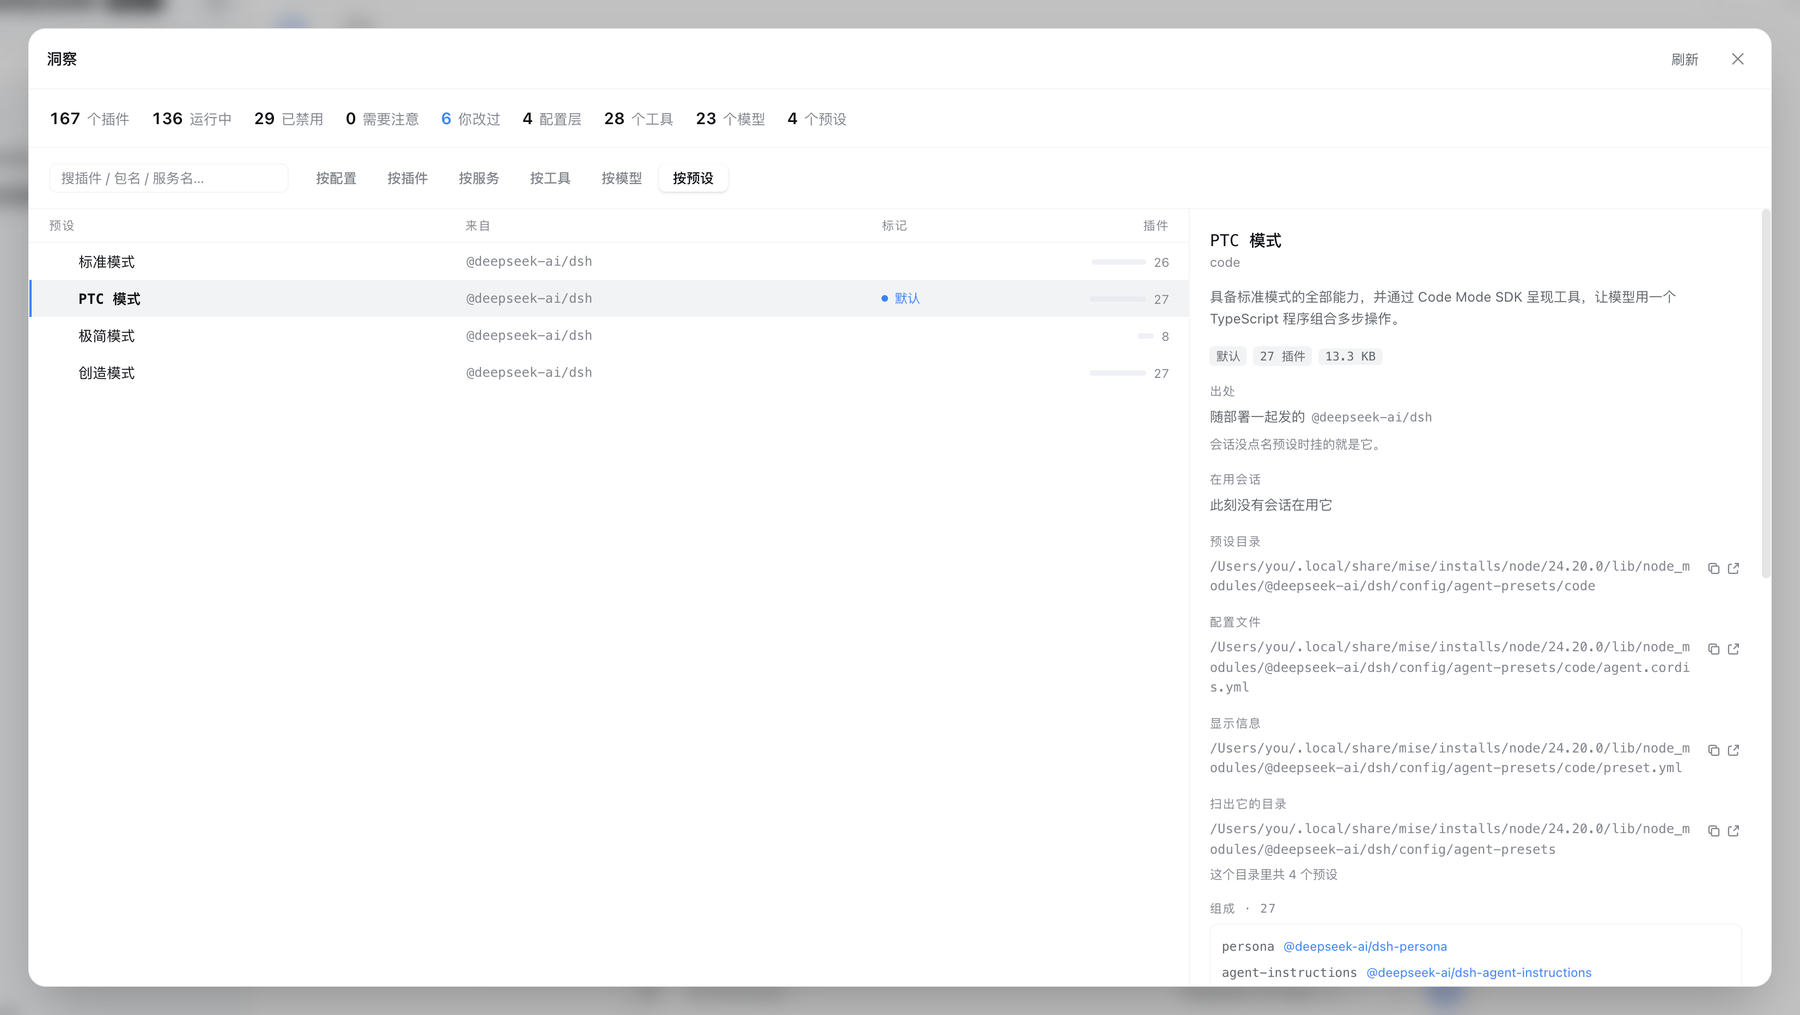
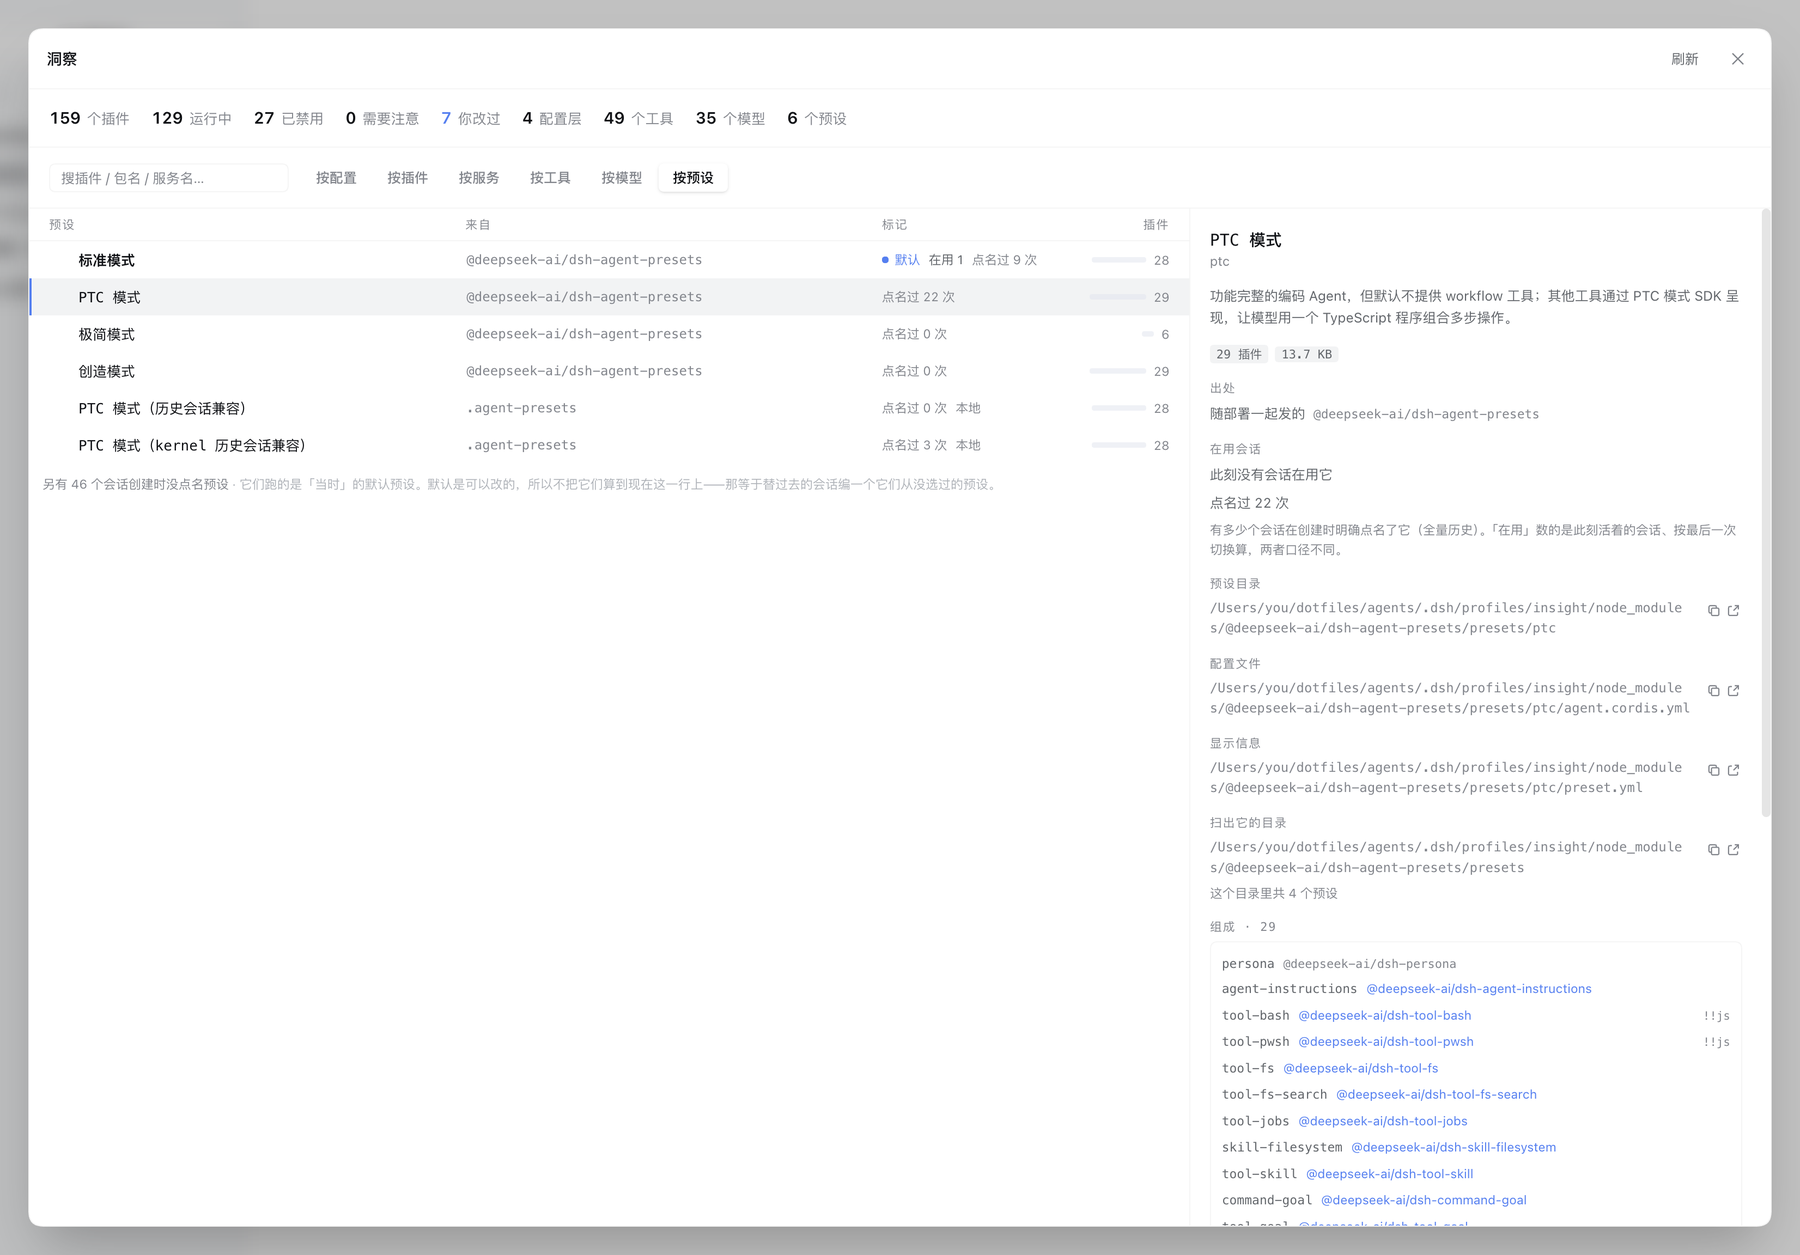
docs: 补上 0.2.0 之后欠的两张截图，重拍过期的那张
README 里的图跟产品对不上了——docs/assets/README.md 自己立的规矩是「图和产品
不会随着迭代慢慢对不上」，这次差了两处：

- presets.png 拍于 8/30，之后「按预设」那一轴加了「点名过 N 次」这一列、右栏
  的口径解释，以及整轴那条「另有 N 个会话创建时没点名预设」的脚注，图上全没有。
  重拍，构图照旧（选中 PTC 模式那一行）。
- 「点界面查插件」整节没有配图，而它是纯视觉的功能：琥珀虚线框、悬停高亮、
  层级菜单，光靠文字说不清楚。补两张——一张悬停（蓝框 + 包名 + slot，同屏
  非官方插件全被琥珀框出来，底部报「这一屏 2 处」），一张按住不放点右键
  （「当前 → 根」四层：从 @gwsbhqt/dsh-insight 一路数到 dsh-client-ui-layout
  的 root）。

都是 shoot.mjs 直连 CDP 的真实渲染，抓图前照例跑 sanitize() 把家目录换成
/Users/you，只改那一帧的 DOM 文本节点。

diff --git a/README.md b/README.md
@@ -110,11 +110,15 @@ A broken preset stays on the roster with its reason: hiding it would leave its d
 
 ## 点界面查插件 · Point at the UI, name the plugin
 
+<img src="https://raw.githubusercontent.com/gwsbhqt/dsh-insight/main/docs/assets/inspector.png" width="900" alt="Point at the UI: hold ⌥ to highlight a piece of UI and name the plugin behind it, while every non-shipped plugin on screen is outlined in amber">
+
 The switch lives in the Insight section of Settings. Once on, hold the modifier (⌥ by default, any combination works):
 
 - **Hover** — highlights the UI under the cursor and names the plugin that contributed it, plus where it sits (the slot key and that cell's key). The dashed outline around it is that entry's whole territory.
 - **Click** — opens the workbench straight onto the By plugin axis with that row selected, so the right column is its full dossier: where it came from, its wiring, its blast radius, its settings, and how the config stacked up.
 - **Right-click while holding** — expands the entire `here → root` chain, from the innermost piece of UI out to the shell; pick any level to jump to the plugin that filled it.
+
+<img src="https://raw.githubusercontent.com/gwsbhqt/dsh-insight/main/docs/assets/inspector-hierarchy.png" width="900" alt="Right-click while holding: the whole here-to-root chain, from Insight's own layer out to root">
 
 The moment you hold it, **every piece of UI on this screen contributed by a non-official plugin is outlined in amber** — third-party and local (your own packages linked in) alike. The test is the same one the By plugin axis uses: a resolved path outside `node_modules` means local, the `@deepseek-ai` scope means official, everything else is third-party — no allowlist anywhere. So "what on this screen did not ship with dsh" is one glance rather than a hunt.
 

diff --git a/README.zh-CN.md b/README.zh-CN.md
@@ -110,11 +110,15 @@ dsh plugin --profile web update @gwsbhqt/dsh-insight@latest
 
 ## 点界面查插件
 
+<img src="https://raw.githubusercontent.com/gwsbhqt/dsh-insight/main/docs/assets/inspector.png" width="900" alt="点界面查插件：按住 ⌥ 悬停，说出这块 UI 是谁插进来的；同一刻这一屏所有非官方插件插进来的界面被琥珀色框出来">
+
 开关在设置页的洞察区。开了之后按住修饰键（默认 ⌥，可改成任意组合）：
 
 - **悬停**——高亮鼠标下那块 UI，说出它是哪个插件插进来的，以及插在哪个位置（slot 名加那一格的键）。外面还有一圈虚线框，是这条 entry 的整块地盘。
 - **点击**——直接开到工作台的「按插件」轴，选中那一条，右栏就是它的完整档案：哪来的、接线、影响面、设置、配置怎么叠出来的。
 - **按住不放点右键**——展开「当前 → 根」的整条层级，从最里面那块 UI 一层层数到壳；点任意一层，跳那一层的插件。
+
+<img src="https://raw.githubusercontent.com/gwsbhqt/dsh-insight/main/docs/assets/inspector-hierarchy.png" width="900" alt="按住不放点右键：「当前 → 根」的整条层级，从洞察自己那一层一路数到 root">
 
 按住的同一刻，**这一屏所有非官方插件插进来的界面会被琥珀色框出来**——三方的和本地的（`link:` 进来的自研包）都算。判据就是「按插件」那一轴在用的同一份：磁盘路径不在 `node_modules` 里 = 本地，`@deepseek-ai` scope = 官方，其余三方，不靠任何名单。于是「这一屏哪些东西不是 dsh 自带的」是一眼的事，不用一块块去指。
 
